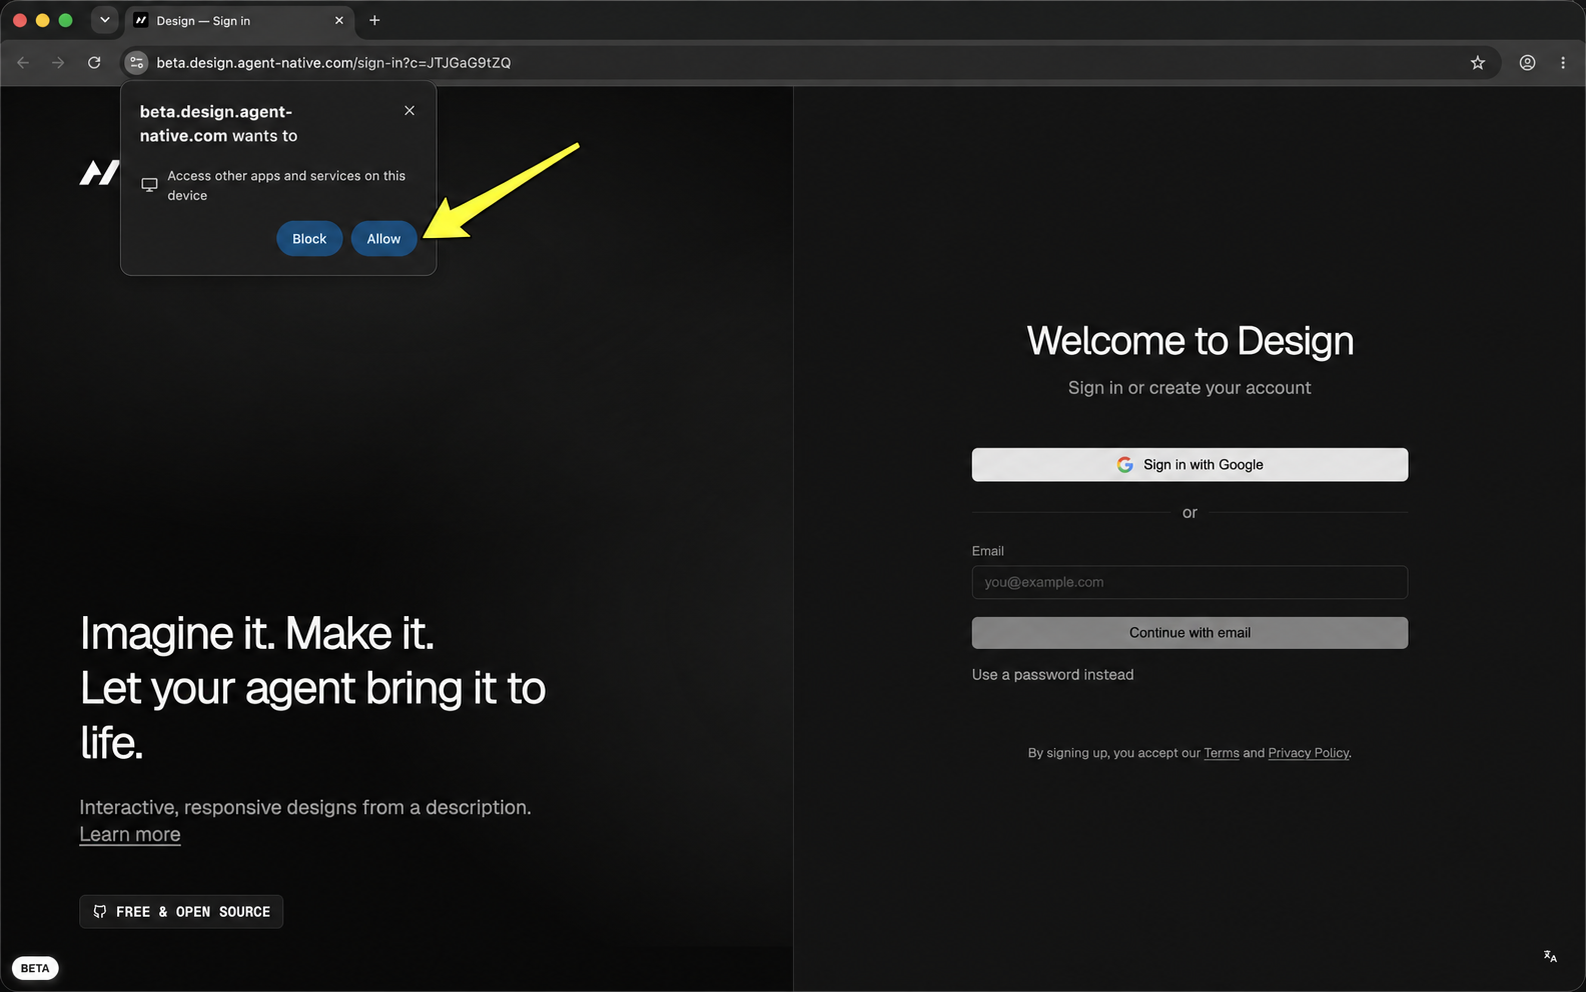
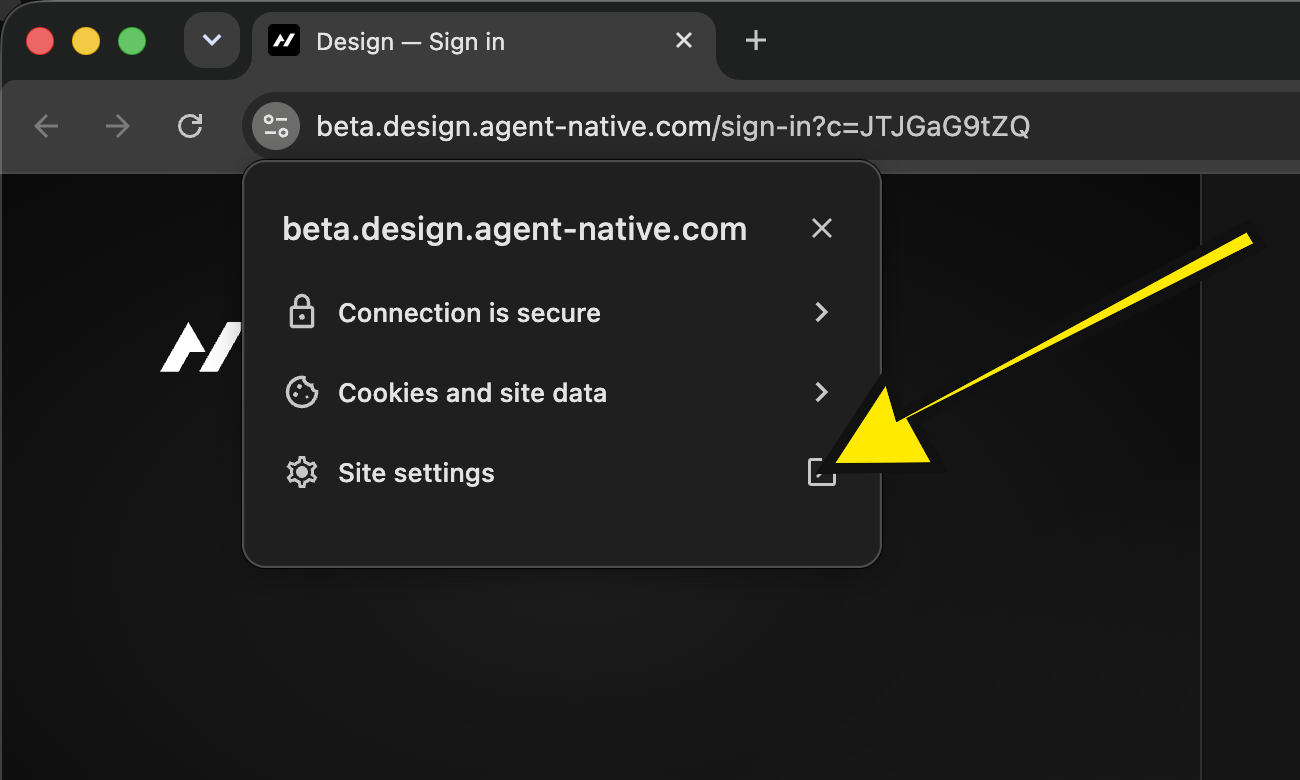
fix: guide users to allow local network access

diff --git a/templates/design/app/components/design/DesignCanvas.localhost-preview.test.tsx b/templates/design/app/components/design/DesignCanvas.localhost-preview.test.tsx
@@ -95,7 +95,7 @@ describe("DesignCanvas authenticated localhost source hydration", () => {
       permissionHelp?.querySelector("summary")?.click();
     });
     expect(permissionHelp?.textContent).toContain(
-      "Click the site controls icon to the left of the address bar, open Site settings, then allow access to apps on your device.",
+      "Click the site controls icon to the left of the address bar, open Site settings, then set Local network to Allow.",
     );
     expect(
       Array.from(permissionHelp?.querySelectorAll("img") ?? []).map((image) =>
@@ -105,6 +105,11 @@ describe("DesignCanvas authenticated localhost source hydration", () => {
       "/local-network-access-prompt.png",
       "/local-network-access-settings.png",
     ]);
+    expect(
+      permissionHelp?.querySelector<HTMLImageElement>(
+        'img[src="/local-network-access-prompt.png"]',
+      )?.alt,
+    ).toContain("Local network to Allow");
   });
 
   it("shows the Chrome permission prompt and closes from its X button", async () => {
@@ -122,9 +127,11 @@ describe("DesignCanvas authenticated localhost source hydration", () => {
       );
     });
 
-    expect(
-      document.querySelector('img[src="/local-network-access-permission.png"]'),
-    ).not.toBeNull();
+    const permissionImage = document.querySelector<HTMLImageElement>(
+      'img[src="/local-network-access-permission.png"]',
+    );
+    expect(permissionImage).not.toBeNull();
+    expect(permissionImage?.alt).toContain("Allow");
     const dismissButton = Array.from(
       document.body.querySelectorAll("button"),
     ).find((button) => button.textContent?.trim() === "Close");
@@ -1129,7 +1136,7 @@ describe("DesignCanvas authenticated localhost source hydration", () => {
     });
     expect(permissionHelp?.open).toBe(true);
     expect(permissionHelp?.textContent).toContain(
-      "Click the site controls icon to the left of the address bar, open Site settings, then allow access to apps on your device.",
+      "Click the site controls icon to the left of the address bar, open Site settings, then set Local network to Allow.",
     );
     expect(
       Array.from(permissionHelp?.querySelectorAll("img") ?? []).map((image) =>

diff --git a/templates/design/app/components/design/design-canvas/LocalNetworkAccessPrompt.tsx b/templates/design/app/components/design/design-canvas/LocalNetworkAccessPrompt.tsx
@@ -69,7 +69,7 @@ export function LocalNetworkAccessPrompt({
     "designCanvas.localBridge.permissionPromptSettingsInstructions",
     {
       defaultValue:
-        "Click the site controls icon to the left of the address bar, open Site settings, then allow access to apps on your device.",
+        "Click the site controls icon to the left of the address bar, open Site settings, then set Local network to Allow.",
     },
   );
   const permissionHelp = showPermissionHelp ? (
@@ -77,10 +77,10 @@ export function LocalNetworkAccessPrompt({
       <summary className="cursor-pointer">{noPromptLabel}</summary>
       <img
         src="/local-network-access-prompt.png"
-        alt={description}
+        alt={permissionSettingsInstructions}
         className="mt-3 block w-full rounded-md border border-border"
-        width={1586}
-        height={992}
+        width={1300}
+        height={780}
         loading="lazy"
       />
       <p className="mt-2 leading-relaxed">{permissionSettingsInstructions}</p>
@@ -128,8 +128,8 @@ export function LocalNetworkAccessPrompt({
               src="/local-network-access-permission.png"
               alt={description}
               className="block w-full rounded-md border border-border"
-              width={1654}
-              height={951}
+              width={1460}
+              height={850}
             />
             {permissionHelp}
           </DialogContent>

diff --git a/templates/design/app/i18n/hi-IN.ts b/templates/design/app/i18n/hi-IN.ts
@@ -1462,7 +1462,7 @@ export default {
         "लाइव एडिटिंग चालू करने के लिए Chrome के प्रॉम्प्ट में “अनुमति दें” चुनें।",
       permissionPromptNoPrompt: "Chrome का प्रॉम्प्ट नहीं दिख रहा?",
       permissionPromptSettingsInstructions:
-        "ऐड्रेस बार के बाईं ओर साइट कंट्रोल आइकन पर क्लिक करें, साइट सेटिंग खोलें, फिर अपने डिवाइस पर ऐप्स को ऐक्सेस करने की अनुमति दें।",
+        "ऐड्रेस बार के बाईं ओर साइट कंट्रोल आइकन पर क्लिक करें, साइट सेटिंग खोलें, फिर लोकल नेटवर्क को ‘अनुमति दें’ पर सेट करें।",
       permissionPromptRetry: "कनेक्शन फिर से आज़माएँ",
     },
   },

diff --git a/templates/design/app/i18n/ar-SA.ts b/templates/design/app/i18n/ar-SA.ts
@@ -1456,7 +1456,7 @@ export default {
         "اختر «السماح» في مطالبة Chrome لتفعيل التحرير المباشر.",
       permissionPromptNoPrompt: "لم تظهر مطالبة Chrome؟",
       permissionPromptSettingsInstructions:
-        "انقر على رمز عناصر التحكم بالموقع إلى يسار شريط العناوين، وافتح إعدادات الموقع، ثم اسمح بالوصول إلى التطبيقات على جهازك.",
+        "انقر على رمز عناصر التحكم بالموقع إلى يسار شريط العناوين، وافتح إعدادات الموقع، ثم اضبط الشبكة المحلية على «السماح».",
       permissionPromptRetry: "إعادة محاولة الاتصال",
     },
   },

diff --git a/templates/design/app/i18n/ja-JP.ts b/templates/design/app/i18n/ja-JP.ts
@@ -1491,7 +1491,7 @@ export default {
         "ライブ編集を有効にするには、Chrome のプロンプトで「許可」を選択してください。",
       permissionPromptNoPrompt: "Chrome のプロンプトが表示されませんか？",
       permissionPromptSettingsInstructions:
-        "アドレスバー左側のサイト設定アイコンをクリックし、サイトの設定を開いて、デバイス上のアプリへのアクセスを許可します。",
+        "アドレスバー左側のサイト設定アイコンをクリックし、サイトの設定を開いて、ローカル ネットワークを「許可」に設定します。",
       permissionPromptRetry: "接続を再試行",
     },
   },

diff --git a/templates/design/app/i18n/ko-KR.ts b/templates/design/app/i18n/ko-KR.ts
@@ -1471,7 +1471,7 @@ export default {
         "실시간 편집을 사용하려면 Chrome 프롬프트에서 ‘허용’을 선택하세요.",
       permissionPromptNoPrompt: "Chrome 프롬프트가 표시되지 않나요?",
       permissionPromptSettingsInstructions:
-        "주소 표시줄 왼쪽의 사이트 제어 아이콘을 클릭하고 사이트 설정을 연 다음 기기의 앱에 대한 액세스를 허용하세요.",
+        "주소 표시줄 왼쪽의 사이트 제어 아이콘을 클릭하고 사이트 설정을 연 다음 로컬 네트워크를 허용으로 설정하세요.",
       permissionPromptRetry: "연결 재시도",
     },
   },

diff --git a/templates/design/app/i18n/fr-FR.ts b/templates/design/app/i18n/fr-FR.ts
@@ -1503,7 +1503,7 @@ export default {
         "Choisissez Autoriser dans l’invite de Chrome pour activer la modification en direct.",
       permissionPromptNoPrompt: "Aucune invite Chrome ?",
       permissionPromptSettingsInstructions:
-        "Cliquez sur l’icône de commandes du site à gauche de la barre d’adresse, ouvrez les paramètres du site, puis autorisez l’accès aux applications sur votre appareil.",
+        "Cliquez sur l’icône de commandes du site à gauche de la barre d’adresse, ouvrez les paramètres du site, puis définissez Réseau local sur Autoriser.",
       permissionPromptRetry: "Réessayer la connexion",
     },
   },

diff --git a/templates/design/app/i18n/es-ES.ts b/templates/design/app/i18n/es-ES.ts
@@ -1490,7 +1490,7 @@ export default {
         "Selecciona Permitir en el aviso de Chrome para habilitar la edición en vivo.",
       permissionPromptNoPrompt: "¿No aparece el aviso de Chrome?",
       permissionPromptSettingsInstructions:
-        "Haz clic en el icono de controles del sitio a la izquierda de la barra de direcciones, abre Configuración del sitio y permite el acceso a las aplicaciones de tu dispositivo.",
+        "Haz clic en el icono de controles del sitio a la izquierda de la barra de direcciones, abre Configuración del sitio y establece Red local en Permitir.",
       permissionPromptRetry: "Reintentar conexión",
     },
   },

diff --git a/templates/design/app/i18n/de-DE.ts b/templates/design/app/i18n/de-DE.ts
@@ -1505,7 +1505,7 @@ export default {
         "Wähle in der Chrome-Abfrage „Zulassen“, um die Live-Bearbeitung zu aktivieren.",
       permissionPromptNoPrompt: "Keine Chrome-Abfrage?",
       permissionPromptSettingsInstructions:
-        "Klicke links neben der Adressleiste auf das Symbol für Website-Einstellungen, öffne die Website-Einstellungen und erlaube den Zugriff auf Apps auf deinem Gerät.",
+        "Klicke links neben der Adressleiste auf das Symbol für Website-Einstellungen, öffne die Website-Einstellungen und setze Lokales Netzwerk auf Zulassen.",
       permissionPromptRetry: "Verbindung wiederholen",
     },
   },

diff --git a/templates/design/app/i18n/pt-BR.ts b/templates/design/app/i18n/pt-BR.ts
@@ -1489,7 +1489,7 @@ export default {
         "Para ativar a edição ao vivo, escolha Permitir no aviso do Chrome.",
       permissionPromptNoPrompt: "O aviso do Chrome não apareceu?",
       permissionPromptSettingsInstructions:
-        "Clique no ícone de controles do site à esquerda da barra de endereço, abra as configurações do site e permita o acesso aos apps do seu dispositivo.",
+        "Clique no ícone de controles do site à esquerda da barra de endereço, abra as configurações do site e defina Rede local como Permitir.",
       permissionPromptRetry: "Tentar conexão novamente",
     },
   },

diff --git a/templates/design/app/i18n/en-US.ts b/templates/design/app/i18n/en-US.ts
@@ -1475,7 +1475,7 @@ export default {
         "Choose Allow in Chrome's prompt to enable live editing.",
       permissionPromptNoPrompt: "No Chrome prompt?",
       permissionPromptSettingsInstructions:
-        "Click the site controls icon to the left of the address bar, open Site settings, then allow access to apps on your device.",
+        "Click the site controls icon to the left of the address bar, open Site settings, then set Local network to Allow.",
       permissionPromptRetry: "Retry connection",
       confirmationRetryExhausted:
         "Live editor bridge did not confirm after several attempts.",

diff --git a/templates/design/app/i18n/zh-TW.ts b/templates/design/app/i18n/zh-TW.ts
@@ -1519,7 +1519,7 @@ export default {
         "在 Chrome 的提示中選擇「允許」，即可啟用即時編輯。",
       permissionPromptNoPrompt: "沒有看到 Chrome 提示？",
       permissionPromptSettingsInstructions:
-        "點擊網址列左側的網站控制圖示，開啟網站設定，然後允許存取裝置上的 App。",
+        "點擊網址列左側的網站控制圖示，開啟網站設定，然後將本機網路設為「允許」。",
       permissionPromptRetry: "重試連線",
     },
   },
